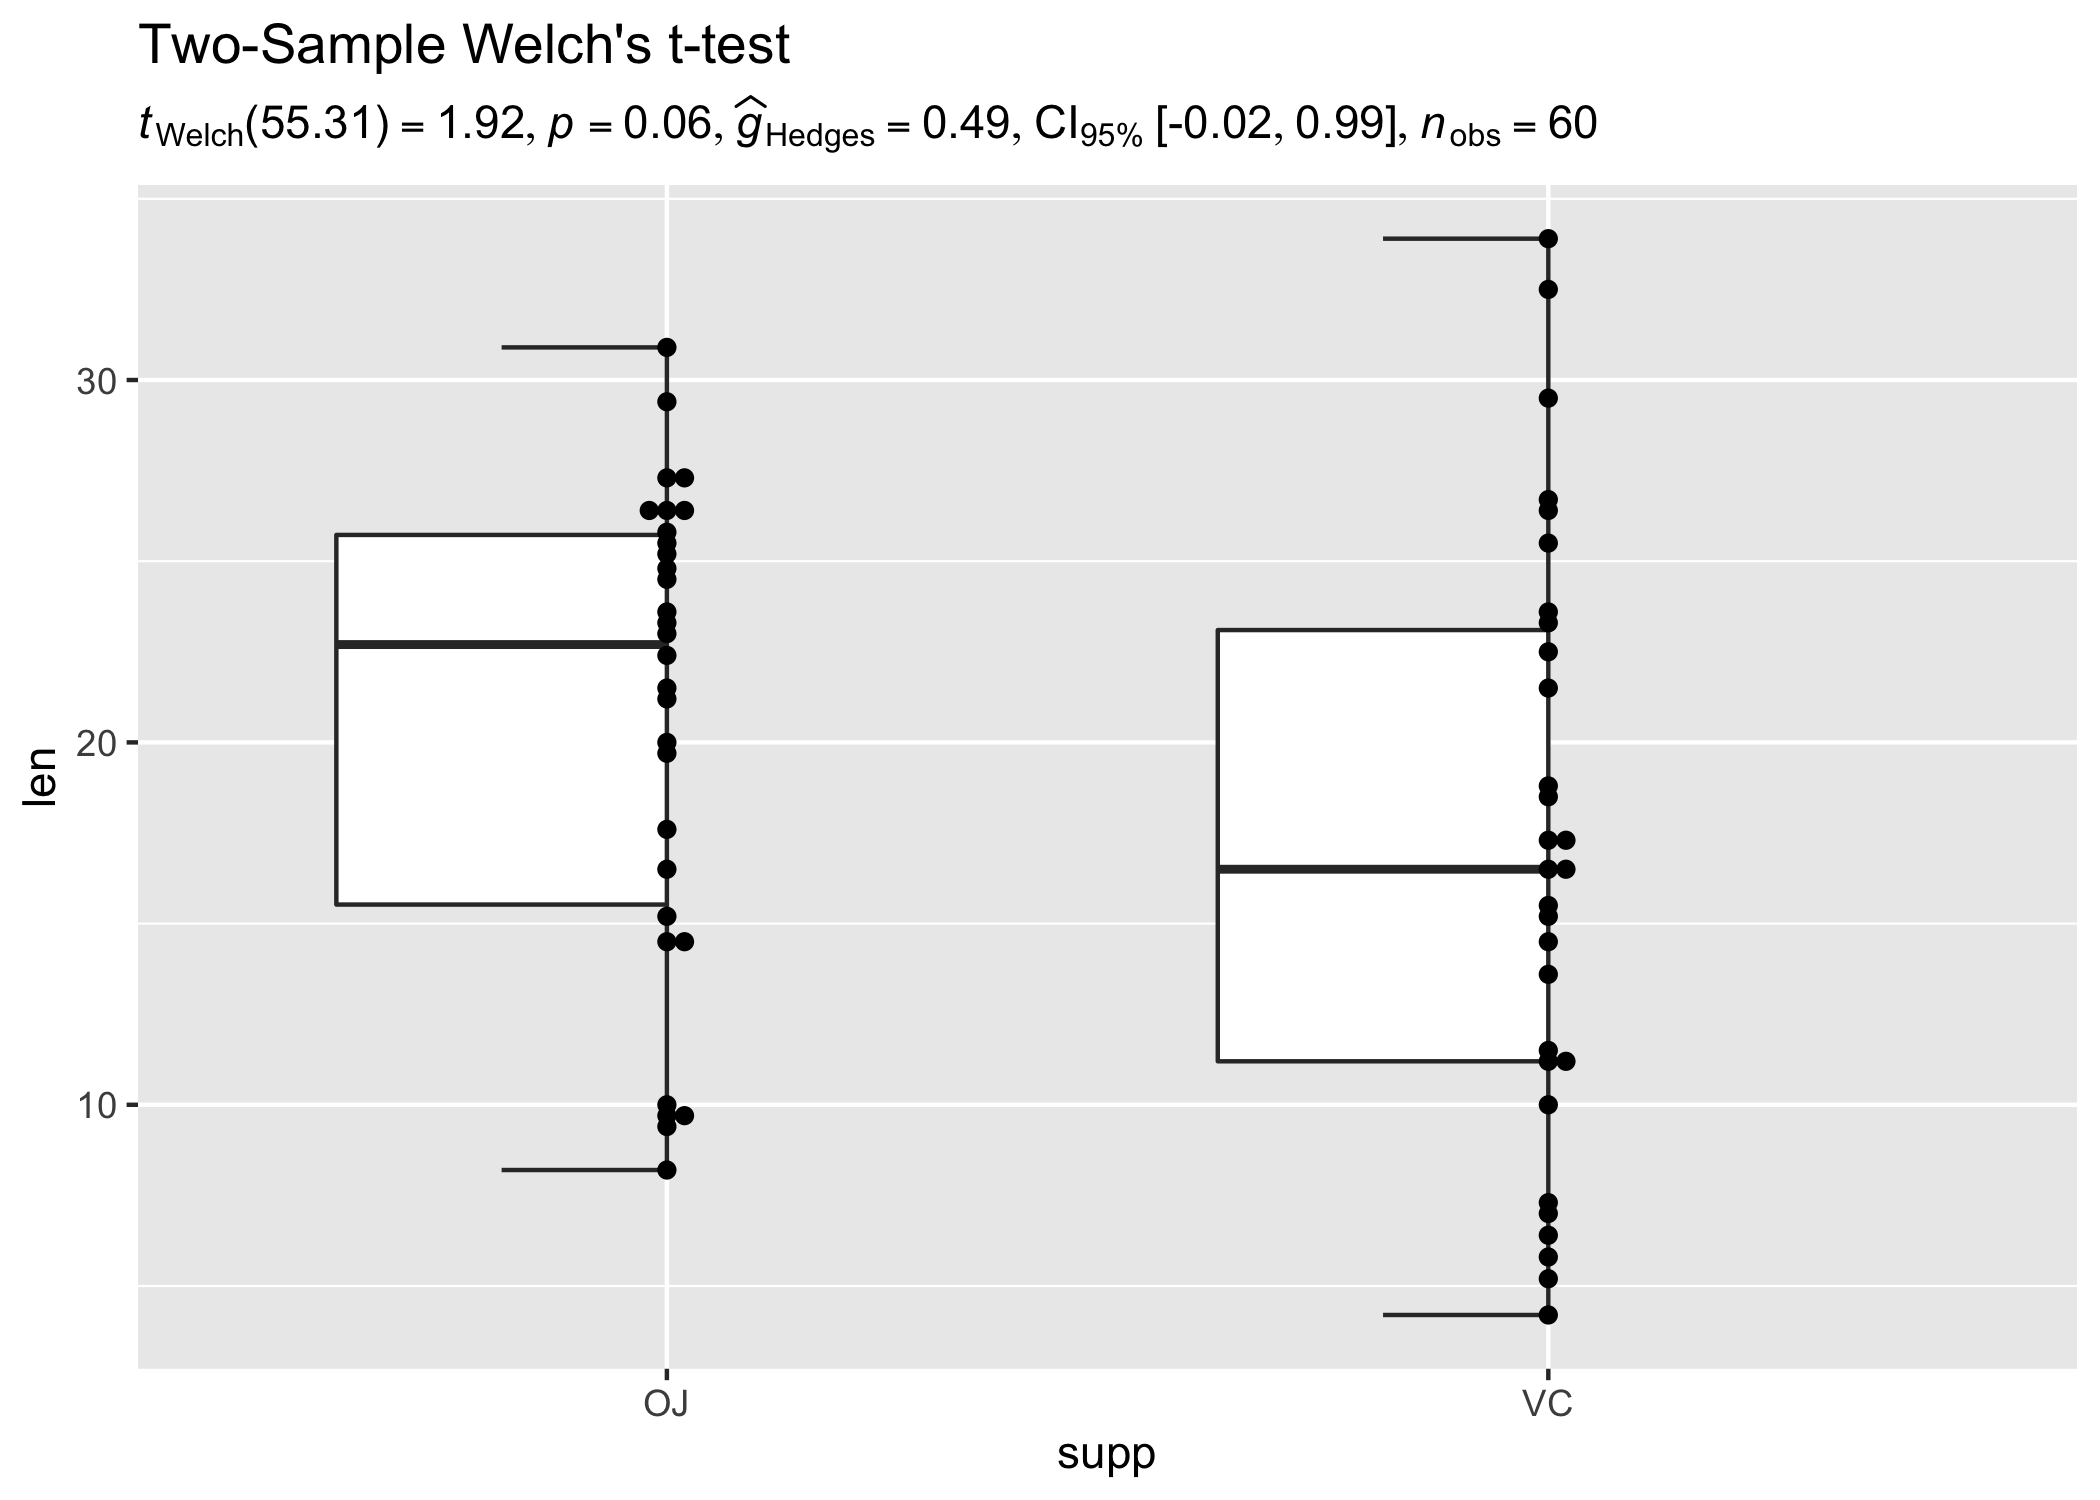
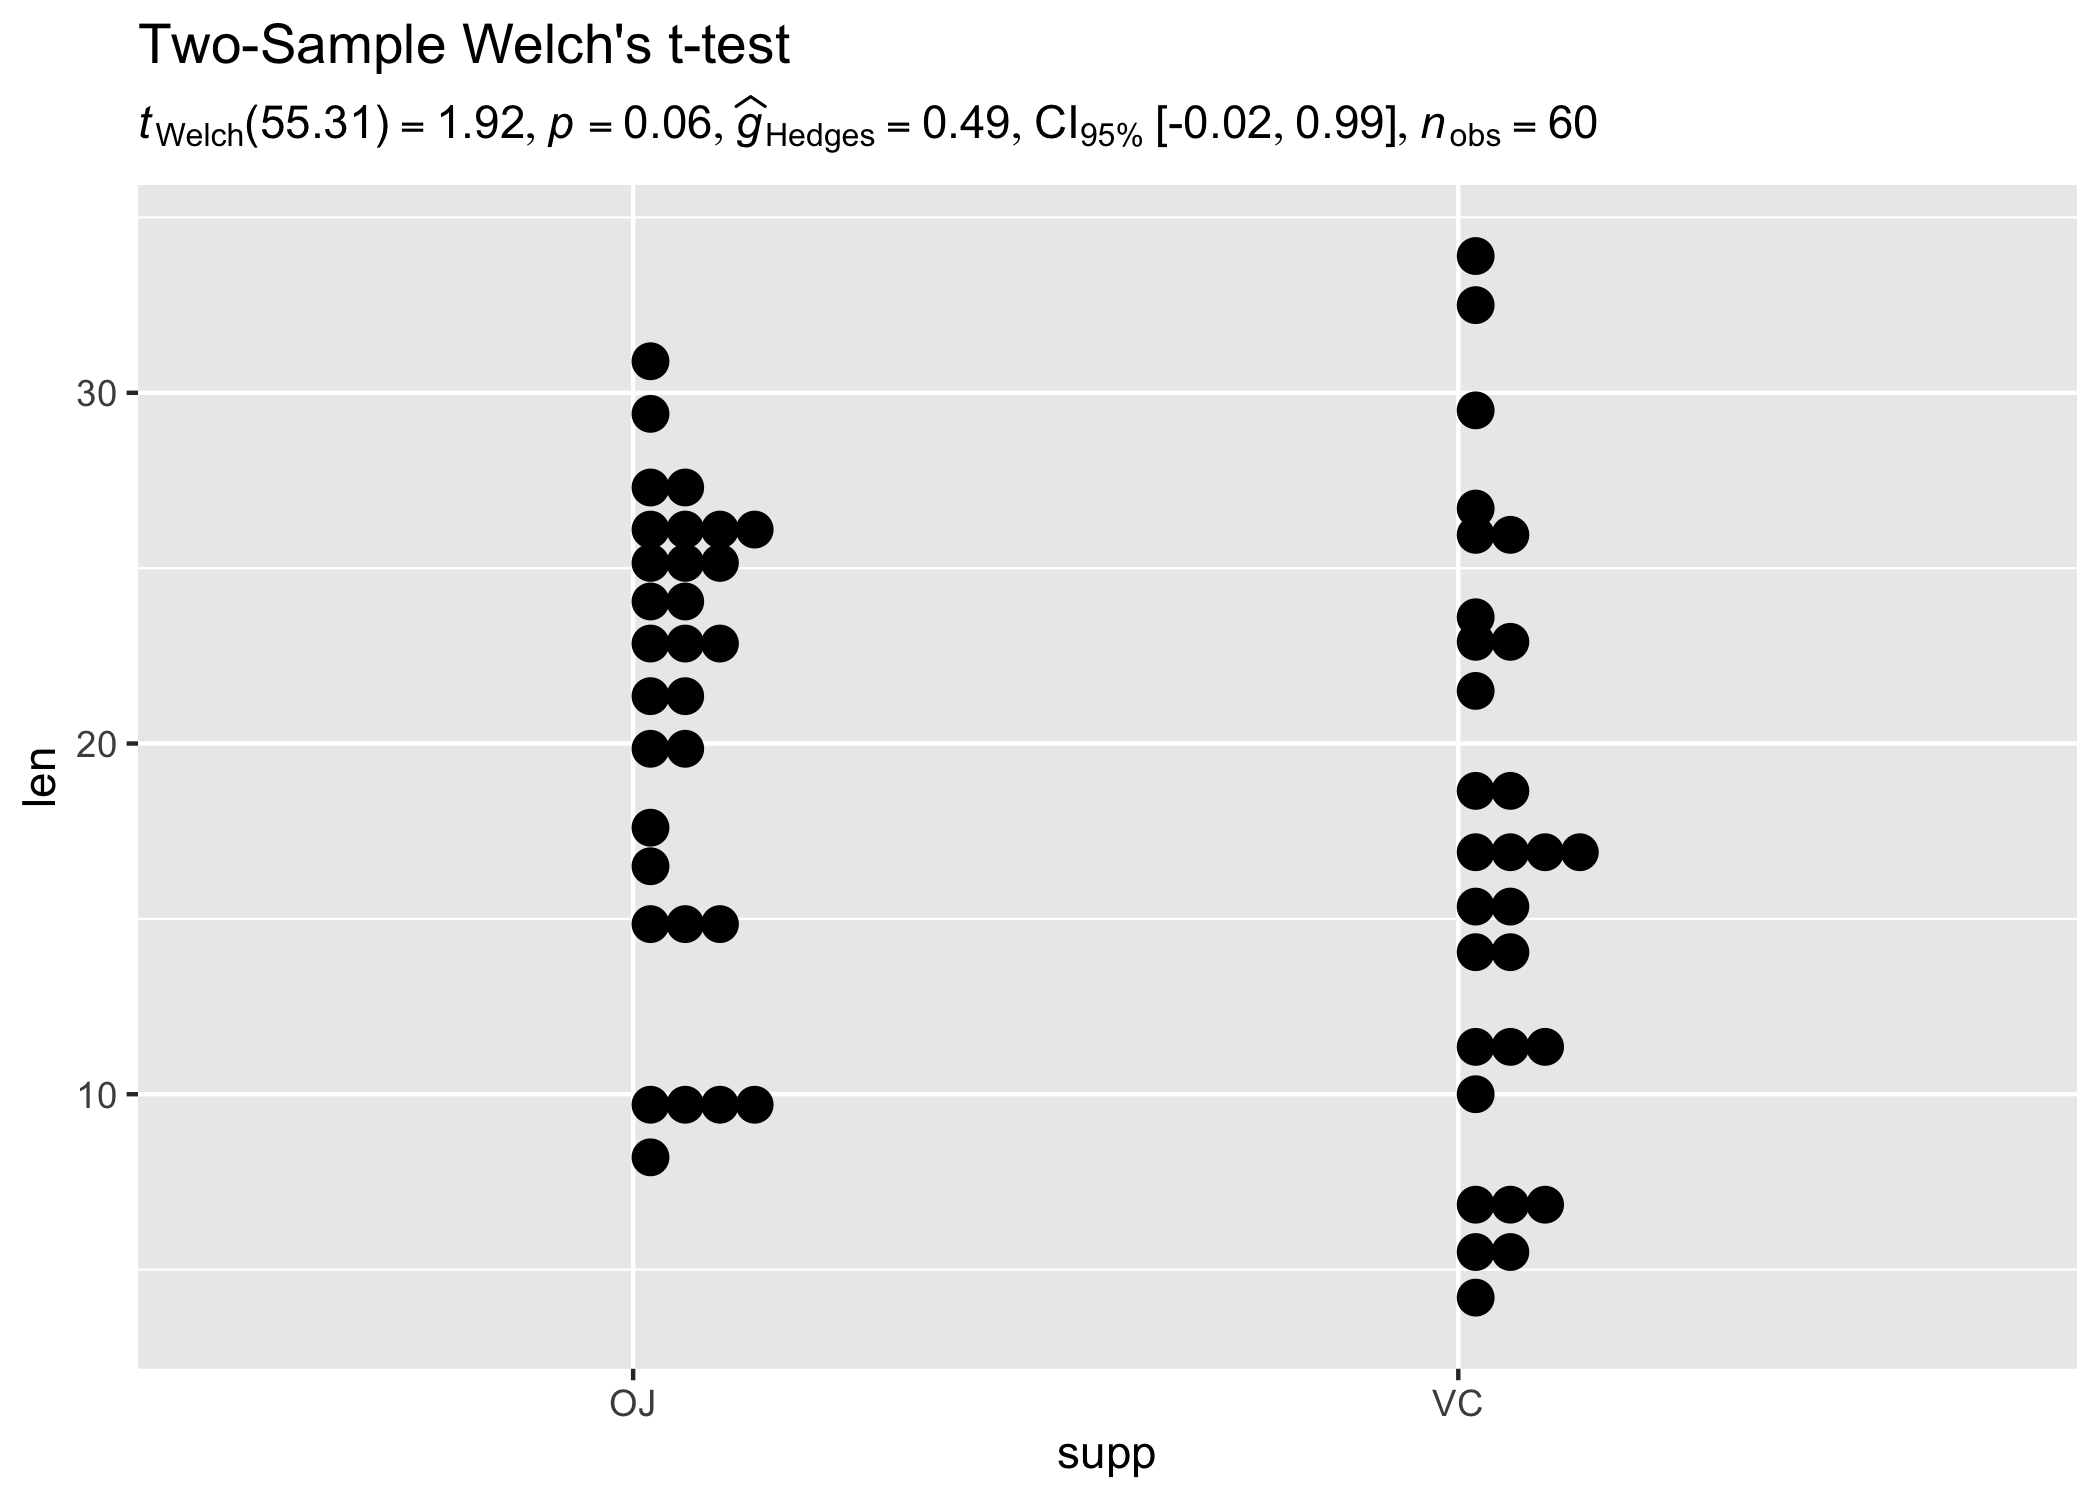
fix README example

diff --git a/README.md b/README.md
@@ -325,15 +325,12 @@ ggplot2::ggplot(WineTasting, aes(Wine, Taste, color = Wine)) +
 ``` r
 # setup
 set.seed(123)
-
 library(gghalves)
-library(ggbeeswarm)
 
 results_data <- two_sample_test(ToothGrowth, supp, len)
 
 ggplot(ToothGrowth, aes(supp, len)) +
-  geom_half_boxplot() +
-  geom_beeswarm() +
+  geom_half_dotplot() +
   labs(
     title = "Two-Sample Welch's t-test",
     subtitle = parse(text = results_data$expression)
